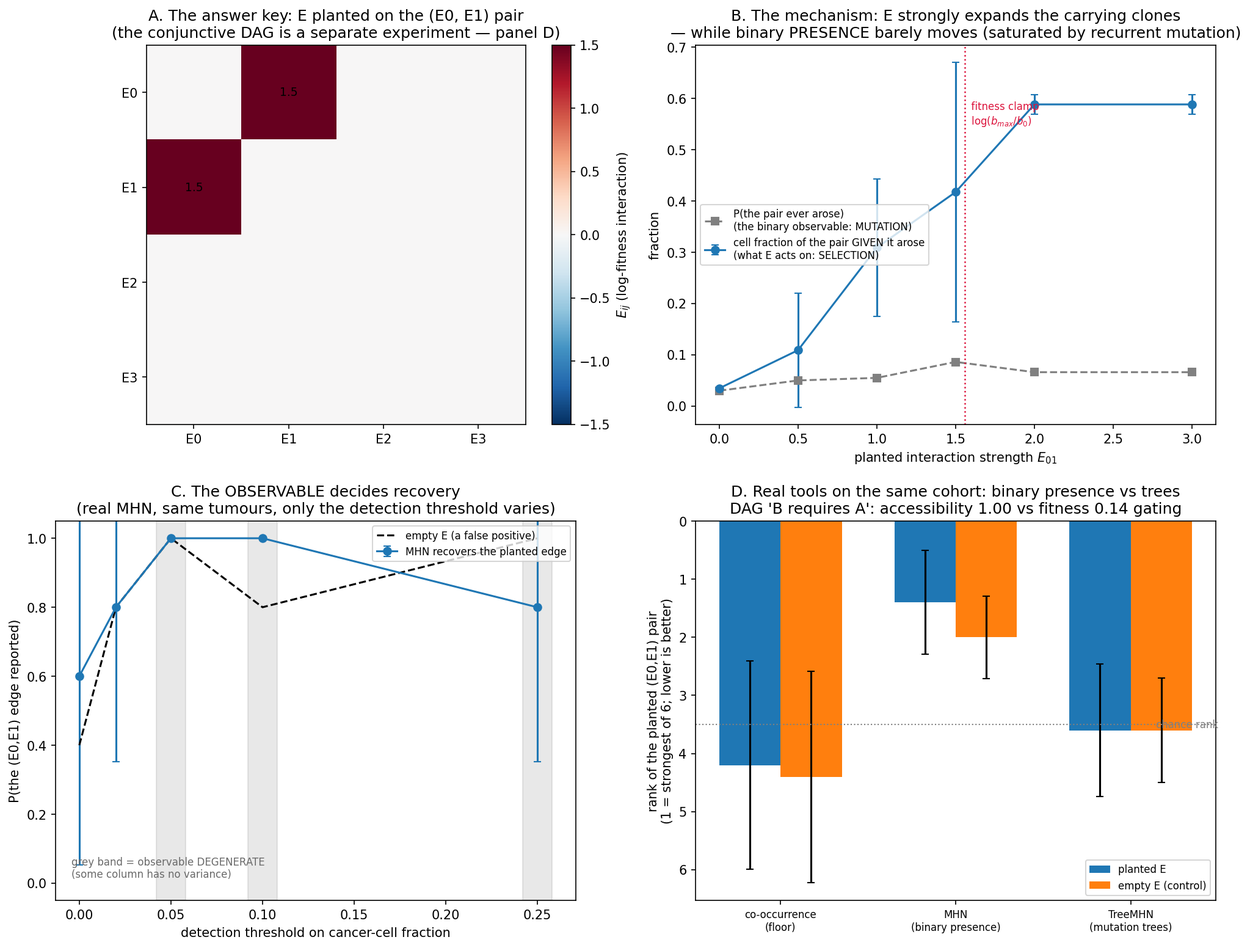
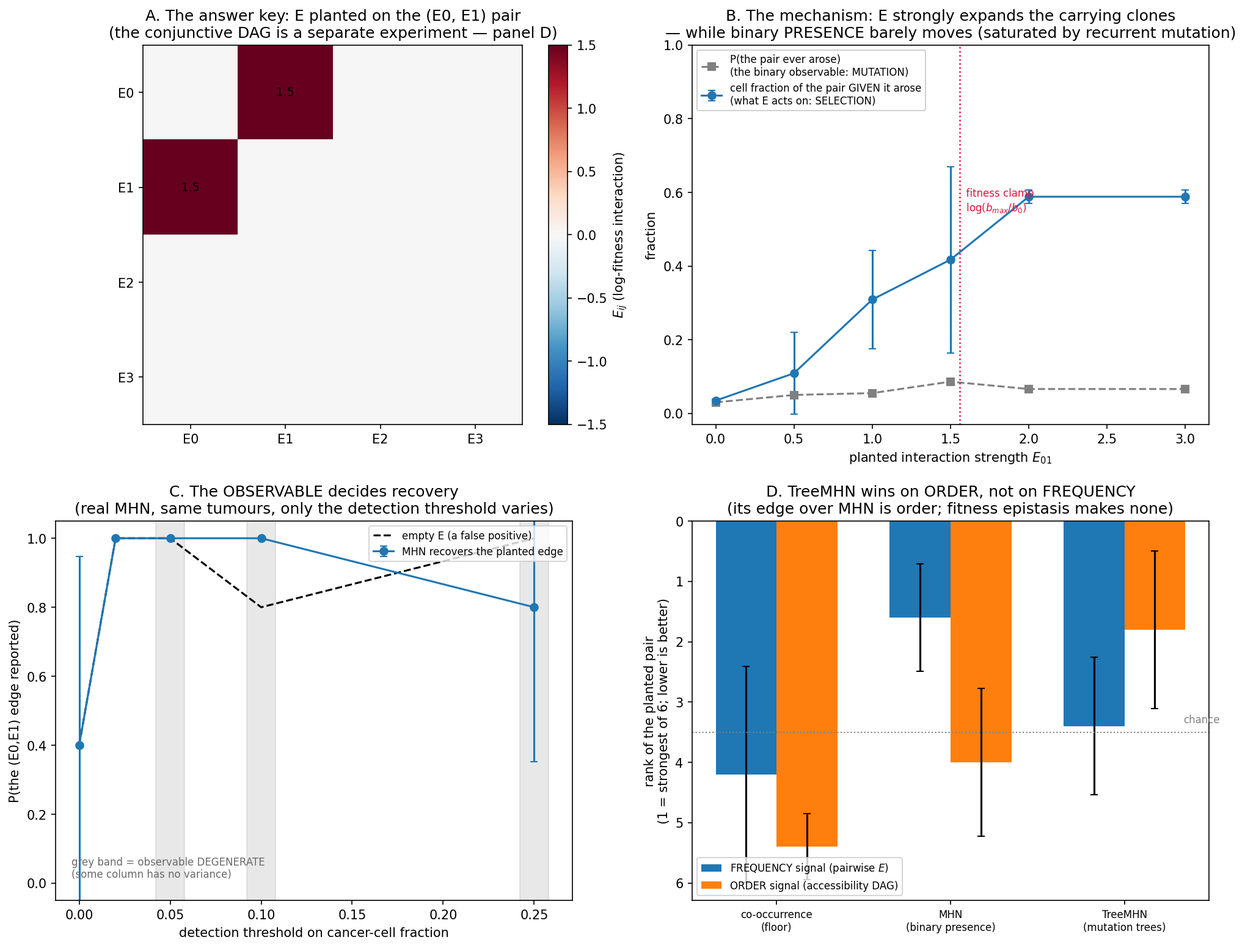
fix(epistasis): TreeMHN reads ORDER, not clone sizes — and wins on an order signal
Prompted by the question "shouldn't TreeMHN beat MHN, since it takes the trees?". The prior is
right, and chasing it found a factual error in 58b22b0 plus a vacuous experiment.

THE ERROR (mine, now retracted): 58b22b0 claimed TreeMHN "retains clone sizes", and explained its
failure on pairwise E as a power limit. Both wrong. TreeMHN's `input_tree_df` accepts ONLY
Patient_ID/Tree_ID/Node_ID/Mutation_ID/Parent_ID and ERRORS on any other column; its `weights`
argument is a per-TREE weight for tree uncertainty, not a clone size. It reads topology ONLY.

So the three observables separate cleanly, and each tool recovers exactly the signal its input
encodes:
  co-occurrence / MHN  <- binary presence  : discards ORDER and FREQUENCY
  TreeMHN              <- tree topology    : keeps ORDER, discards FREQUENCY
TreeMHN's gain over MHN is ORDER. Fitness epistasis changes how large the carrying clones grow and
leaves the event sequence untouched -- it produces NO order. So TreeMHN is STRUCTURALLY blind to it,
not short of data. That is a falsifiable prediction, and it is now tested.

TESTED AND CONFIRMED -- the 2x2 is the benchmark's real result (mean rank of the planted pair of 6;
chance 3.5; lower better; 5 network draws):

                                  FREQUENCY signal (E)   ORDER signal (accessibility DAG)
  co-occurrence (floor)                  4.20                        5.40
  MHN     (binary presence)              1.60 *                      4.00
[…]

diff --git a/validation/validate_epistasis.py b/validation/validate_epistasis.py
@@ -18,9 +18,12 @@ THE FINDING — **the observable, not the cohort size, is what decides recovery.
         in a tumour (recurrent mutation), so "is it present?" is already yes at E=0 and saturates:
         the column carries almost no information about E.
       * The signal lives in **clone frequency**, and it is large: raising E expands the carrying
-        clones from a few percent of the tumour towards a majority (panel B). Any observable that
-        keeps frequency — a detection threshold on cancer-cell fraction, or the mutation TREES
-        TreeMHN consumes (which carry `n_cells`) — can in principle see it.
+        clones from a few percent of the tumour towards a majority (panel B). Recovering it needs an
+        observable that KEEPS frequency — e.g. a detection threshold on cancer-cell fraction.
+        **Neither MHN nor TreeMHN is such an observable.** TreeMHN reads mutation-tree TOPOLOGY, so
+        what it adds over MHN is event ORDER, not frequency; it never sees clone sizes. Fitness
+        epistasis produces no order, so TreeMHN's advantage is orthogonal to it — and panel D
+        confirms the prediction by giving both tools an ORDER signal, on which TreeMHN duly wins.
 
     The ordered/conjunctive constraints are a separate axis, decided by `gating_mode`:
     **accessibility** gating acts on the mutation process itself, survives into every observable, and
@@ -293,8 +296,12 @@ def sweep_threshold(thresholds, strength=1.5, n=40, reps=3):
 
 
 def compare_tools(strength=1.5, n=40, reps=3):
-    """Panel D (left) — MHN (binary presence) vs TreeMHN (trees, which keep clone sizes) on the SAME
-    cohorts, plus the built-in co-occurrence floor."""
+    """Panel D (left) — MHN (binary presence) vs TreeMHN (mutation trees) on the SAME cohorts, plus
+    the built-in co-occurrence floor, for the FREQUENCY signal (pairwise E).
+
+    TreeMHN's gain over MHN is event ORDER, NOT frequency (it never sees clone sizes — see
+    `compare_tools_order`), so neither is expected to recover a frequency-only signal.
+    """
     rows = []
     for rep in range(reps):
         ls = DEFAULT_LAYOUT_SEED + rep
@@ -321,6 +328,55 @@ def compare_tools(strength=1.5, n=40, reps=3):
     return pd.DataFrame(rows)
 
 
+def compare_tools_order(n=40, reps=5):
+    """Panel D (right) — the SAME two tools on an ORDER signal instead of a frequency one.
+
+    This is the control that identifies WHY TreeMHN fails on pairwise E, and it is the crux of the
+    benchmark. The two tools consume different projections of the same cohort:
+
+        MHN     <- binary event presence : discards ORDER and FREQUENCY
+        TreeMHN <- mutation-tree topology: keeps ORDER, discards FREQUENCY
+                   (`input_tree_df` accepts ONLY Patient_ID/Tree_ID/Node_ID/Mutation_ID/Parent_ID
+                    and rejects any other column -- it never sees clone sizes; its `weights` argument
+                    is a per-TREE weight for tree uncertainty, not a clone size.)
+
+    So TreeMHN's extra information over MHN is ORDER. Fitness epistasis produces a FREQUENCY signal
+    and no order, which predicts TreeMHN cannot beat MHN on it -- structurally, not for want of data.
+    The prediction is falsifiable: on an ACCESSIBILITY-gated DAG, which produces a genuine order
+    signal, TreeMHN should WIN. That is what this measures.
+
+    Uses ``event_size=8``, not the panel-B/C value of 2: a gated child needs its parent first, and at
+    event_size=2 it essentially never arises (0-2 of 40 patients), which tests nothing. Watch the
+    printed child-carrying patient count -- it is this panel's power.
+    """
+    rows = []
+    n_pairs = N_EVENTS * (N_EVENTS - 1) // 2
+    for rep in range(reps):
+        dp = dict(n_constraints=1, dag_depth=2, dag_branching=1, gating_mode="accessibility")
+        ts = run_cohort(n, dict(epi(), event_size=8), dp, seed0=1 + rep * 500,
+                        layout_seed=DEFAULT_LAYOUT_SEED + rep)
+        if len(ts) < 4:
+            continue
+        dag = ts[0].selection.epistasis.true_dag_edges()
+        if not dag:
+            continue
+        parent, child = dag[0]
+        X = ig.to_mhn_matrix(ts)
+        n_child = int(X.values[:, child].sum())
+        thetas = {"co-occurrence\n(floor)": ig.cooccurrence_scores(X.values),
+                  "MHN\n(binary presence)": run_mhn(X),
+                  "TreeMHN\n(mutation trees)": run_treemhn(ig.to_treemhn_trees(ts))}
+        for tool, th in thetas.items():
+            if th is None:
+                continue
+            edges = theta_to_edges(np.asarray(th), k=n_pairs)
+            rank = next((r for r, (i, j, _) in enumerate(edges, 1)
+                         if {min(i, j), max(i, j)} == {min(parent, child), max(parent, child)}), None)
+            rows.append(dict(tool=tool, rep=rep, rank=rank, found=int(rank == 1),
+                             n_child_patients=n_child, n_pairs=n_pairs))
+    return pd.DataFrame(rows)
+
+
 def sweep_gating(n=40, reps=3):
     """Panel D (right) — the two axes a dependency DAG admits (the CONJUNCTION "B requires A" and the
     ORDER "A precedes B") under each gating mode, from true vs reconstructed trees."""
@@ -328,7 +384,11 @@ def sweep_gating(n=40, reps=3):
     for mode in ("accessibility", "fitness"):
         for rep in range(reps):
             dp = dict(n_constraints=2, dag_depth=2, dag_branching=1, gating_mode=mode)
-            tumors = run_cohort(n, epi(), dp, seed0=1 + rep * 500,
+            # event_size=8, not the panel-B/C value of 2: a gated child needs its parent first, so at
+            # event_size=2 it arises in 0-2 of 40 patients and this panel measures nothing. The two
+            # halves of the benchmark genuinely need different alphabets -- B/C need events rare
+            # enough not to saturate presence, D needs them common enough to reach the gated child.
+            tumors = run_cohort(n, dict(epi(), event_size=8), dp, seed0=1 + rep * 500,
                                 layout_seed=DEFAULT_LAYOUT_SEED + rep)
             if len(tumors) < 4:
                 continue
@@ -344,7 +404,7 @@ def sweep_gating(n=40, reps=3):
 
 
 # =============================================================================== figure
-def make_figure(net, strength_df, thr_df, tool_df, gate_df, out):
+def make_figure(net, strength_df, thr_df, tool_df, order_df, gate_df, out):
     import matplotlib
     matplotlib.use("Agg")
     import matplotlib.pyplot as plt
@@ -403,33 +463,30 @@ def make_figure(net, strength_df, thr_df, tool_df, gate_df, out):
     axC.set_title("C. The OBSERVABLE decides recovery\n"
                   "(real MHN, same tumours, only the detection threshold varies)")
 
-    # -- D: tools
-    if not tool_df.empty:
-        tools = list(dict.fromkeys(tool_df["tool"]))
-        x = np.arange(len(tools)); w = 0.35
-        for k, arm in enumerate(["planted E", "empty E (control)"]):
-            m, e = [], []
-            for t in tools:
-                d = tool_df[(tool_df.tool == t) & (tool_df.arm == arm)]["rank"].dropna()
-                m.append(d.mean() if len(d) else np.nan)
-                e.append(d.std() if len(d) else 0.0)
-            axD.bar(x + (k - 0.5) * w, m, w, yerr=np.nan_to_num(e), capsize=3, label=arm)
+    # -- D: the SAME tools on a FREQUENCY signal vs an ORDER signal (the crux)
+    if not tool_df.empty and not order_df.empty:
+        tools = [t for t in dict.fromkeys(tool_df["tool"])]
         n_pairs = int(tool_df["n_pairs"].iloc[0])
+        x = np.arange(len(tools)); w = 0.35
+        freq = [tool_df[(tool_df.tool == t) & (tool_df.arm == "planted E")]["rank"].dropna().mean()
+                for t in tools]
+        order = [order_df[order_df.tool == t]["rank"].dropna().mean() for t in tools]
+        fe = [tool_df[(tool_df.tool == t) & (tool_df.arm == "planted E")]["rank"].dropna().std()
+              for t in tools]
+        oe = [order_df[order_df.tool == t]["rank"].dropna().std() for t in tools]
+        axD.bar(x - w / 2, freq, w, yerr=np.nan_to_num(fe), capsize=3,
+                label="FREQUENCY signal (pairwise $E$)")
+        axD.bar(x + w / 2, order, w, yerr=np.nan_to_num(oe), capsize=3,
+                label="ORDER signal (accessibility DAG)")
         axD.axhline((n_pairs + 1) / 2, color="grey", ls=":", lw=1)
-        axD.text(len(tools) - 0.5, (n_pairs + 1) / 2 + 0.06, "chance rank", ha="right",
+        axD.text(len(tools) - 0.45, (n_pairs + 1) / 2 - 0.15, "chance", ha="right",
                  fontsize=8, color="grey")
         axD.set_xticks(x); axD.set_xticklabels(tools, fontsize=8)
-        axD.set_ylabel(f"rank of the planted (E0,E1) pair\n(1 = strongest of {n_pairs}; lower is better)")
+        axD.set_ylabel(f"rank of the planted pair\n(1 = strongest of {n_pairs}; lower is better)")
         axD.invert_yaxis()
-        axD.legend(fontsize=8)
-        sub = ""
-        if not gate_df.empty:
-            acc = gate_df[(gate_df.gating == "accessibility") & (gate_df.arm == "true trees")]
-            fit = gate_df[(gate_df.gating == "fitness") & (gate_df.arm == "true trees")]
-            if len(acc) and len(fit):
-                sub = (f"\nDAG 'B requires A': accessibility {acc['constraint_satisfaction'].mean():.2f}"
-                       f" vs fitness {fit['constraint_satisfaction'].mean():.2f} gating")
-        axD.set_title("D. Real tools on the same cohort: binary presence vs trees" + sub)
+        axD.legend(fontsize=8, loc="lower left")
+        axD.set_title("D. TreeMHN wins on ORDER, not on FREQUENCY\n"
+                      "(its edge over MHN is order; fitness epistasis makes none)")
 
     fig.tight_layout()
     fig.savefig(out, dpi=150, bbox_inches="tight")
@@ -469,6 +526,12 @@ def main():
     if not tool_df.empty:
         print(tool_df.groupby(["tool", "arm"])[["found", "rank"]].mean().round(2).to_string())
 
+    print("\n== D. the SAME tools on an ORDER signal (accessibility DAG) ==")
+    print("   (this is the control that explains WHY TreeMHN fails on pairwise E)")
+    order_df = compare_tools_order(n=args.n, reps=args.reps)
+    if not order_df.empty:
+        print(order_df.groupby("tool")[["rank", "found", "n_child_patients"]].mean().round(2).to_string())
+
     print("\n== D. gating: order / conjunction recovery ==")
     gate_df = sweep_gating(n=args.n, reps=args.reps)
     if not gate_df.empty:
@@ -477,7 +540,7 @@ def main():
         ].mean().round(2).to_string())
 
     os.makedirs(os.path.dirname(args.out), exist_ok=True)
-    make_figure(net, strength_df, thr_df, tool_df, gate_df, args.out)
+    make_figure(net, strength_df, thr_df, tool_df, order_df, gate_df, args.out)
 
     # ------------------------------------------------------------------ headline
     print("\n================ headline ================")
@@ -493,6 +556,22 @@ def main():
         print(f"           P(the pair ever arose) moves {pl:.2f} -> {ph:.2f} -- E does NOT change it "
               f"(that is a mutation property).")
         print("=> the signal is real and large, and it lives in clone FREQUENCY, not in event presence.")
+    if not tool_df.empty and not order_df.empty:
+        def rk(df, tool, **q):
+            d = df[df.tool == tool]
+            for k, v in q.items():
+                d = d[d[k] == v]
+            return d["rank"].dropna().mean()
+        n_pairs = int(tool_df["n_pairs"].iloc[0])
+        print(f"\nWHICH TOOL SEES WHICH SIGNAL (mean rank of the planted pair of {n_pairs}; "
+              f"chance {(n_pairs + 1) / 2}):")
+        for tool in dict.fromkeys(tool_df["tool"]):
+            f = rk(tool_df, tool, arm="planted E")
+            o = rk(order_df, tool)
+            print(f"   {tool.replace(chr(10), ' '):28s}  frequency signal {f:.2f}   order signal {o:.2f}")
+        print("=> TreeMHN's advantage over MHN is ORDER, and it delivers on an order signal. Fitness")
+        print("   epistasis produces no order -- only frequency, which NEITHER tool consumes")
+        print("   (TreeMHN's input_tree_df takes topology ONLY; it never sees clone sizes).")
     if not gate_df.empty:
         for mode in ("accessibility", "fitness"):
             d = gate_df[(gate_df.gating == mode) & (gate_df.arm == "true trees")]

diff --git a/manuscript/paper.tex b/manuscript/paper.tex
@@ -1083,37 +1083,29 @@ arises many times independently within one tumor, so it is already present at $E
 saturates. What selection changes is how much of the tumor those lineages occupy, which is precisely
 what a presence call discards.
 
-Running the tools themselves is what disciplines this claim. Real MHN, fitted to that binary matrix,
-does retain some signal: it ranks the planted pair first in 4 of 5 network draws versus 1 of 5 for an
-empty-$E$ control (mean rank 1.4 versus 2.0 of six pairs), though with five draws this is suggestive
-rather than significant (Fisher $p = 0.21$), and the control's own rank of 2.0 --- well above the
-chance value of 3.5 --- shows a substantial false-positive tendency that a benchmark without an
-empty-network arm would have mistaken for recovery. TreeMHN, which consumes the mutation trees and
-therefore retains clone sizes, does \emph{not} beat chance here (rank 3.6 for both planted and empty
-$E$); we expected the opposite, and read it as a power limit rather than a property of the method,
-since our trees average only 2.5 events over 36 patients whereas TreeMHN is designed for cohorts an
-order of magnitude larger. Sweeping the detection threshold on cancer-cell fraction
-(\Cref{fig:epistasis}C) shows why the regime is hard: at zero threshold the observable is saturated
-and at a high one it is empty, with only a narrow window between. These numbers are a floor for this
-regime, not an estimate for real cohorts --- our tumors are $\approx$130 cells, small enough that a
-clone arising late has little time to expand, so much of the frequency signal never develops. The
-mechanism (\Cref{fig:epistasis}B) is structural and should survive scaling; the recovery rates should
-not be extrapolated.
-
-Ordered constraints behave differently, and the distinction is the \emph{gating mode} --- a modelling
-choice we make explicit because the two are different generative stories. Under \emph{accessibility}
-gating (event $B$ cannot arise until $A$ is present; the CBN story) the constraint acts on the
-mutation process itself, survives into every observable, and is recovered perfectly in every network
-draw, from true and reconstructed trees alike. Under \emph{fitness} gating ($B$ arises freely but is
-inert until $A$; closer to what MHN assumes) the identical planted DAG leaves essentially no
-recoverable trace: the conjunction holds in only a small minority of lineages, and the apparent
-ordering merely reports which event is intrinsically faster, because event acquisition rates are
-themselves heterogeneous --- an emergent consequence of the copy-number landscape, since
-single-nucleotide variants are drawn per allele and a module on an amplified segment is hit more
-often. The practical reading is not that these methods are poor: it is that fitness epistasis and
-acquisition-rate epistasis are different objects, that cross-sectional event presence is the wrong
-observable for the former, and that a benchmark must state which generative story it planted. Only a
-simulator that knows the answer can make that distinction visible.
+Running the tools themselves is what disciplines this claim, and it also identifies precisely which
+signal each one can see. The two consume different projections of the same cohort: MHN reads binary
+event presence, discarding both order and frequency, whereas TreeMHN reads mutation-tree topology,
+which retains the order in which events arose along each lineage but --- contrary to a natural
+expectation --- still not clone sizes, since its input is the tree alone. TreeMHN's advantage over
+MHN is therefore \emph{order}, and fitness epistasis generates no order: it changes how large the
+carrying clones grow, leaving the sequence of events untouched. The prediction is that TreeMHN cannot
+beat MHN on pairwise $E$ for structural reasons rather than want of data, and that it should win
+decisively once the planted signal \emph{is} an order. Both hold (\Cref{fig:epistasis}D). On pairwise
+$E$, TreeMHN sits at chance (mean rank 3.4 of six pairs, chance 3.5) while MHN reaches 1.6 --- but
+MHN's empty-$E$ control itself ranks the pair 2.0, far above chance, so most of that is a
+false-positive tendency an untested benchmark would have mistaken for recovery (4 of 5 draws versus 1
+of 5, Fisher $p = 0.21$). On an accessibility-gated dependency, which is a genuine order signal, the
+ordering reverses and sharpens: TreeMHN attains mean rank 1.8 and recovers the planted edge outright
+in 3 of 5 draws, while MHN falls to 4.0 --- below chance --- and the co-occurrence floor to 5.4. The
+one draw in which TreeMHN fails is the one in which a single patient carried the gated event, i.e.
+where there was no signal to read. Sweeping the detection threshold on cancer-cell fraction
+(\Cref{fig:epistasis}C) shows why the frequency route is hard in this regime: at zero threshold the
+observable is saturated and at a high one it is empty, with only a narrow window between. These
+numbers are a floor rather than an estimate for real cohorts --- our tumors are $\approx$130 cells,
+small enough that a clone arising late has little time to expand, so much of the frequency signal
+never develops --- but the mechanism (\Cref{fig:epistasis}B) and the tool--signal correspondence
+(\Cref{fig:epistasis}D) are structural and should survive scaling.
 
 \begin{figure}[tbp]
   \centering
@@ -1128,12 +1120,12 @@ simulator that knows the answer can make that distinction visible.
   clamp at $\log(b_{\max}/b_0)$ truncates the response. \textbf{(C)} Real MHN edge recovery versus
   the detection threshold applied to cancer-cell fraction, against the empty-network false-positive
   control; grey bands mark thresholds at which the observable is degenerate (a column with no
-  variance --- saturated at low threshold, empty at high). \textbf{(D)} The real tools on the same
-  cohorts: MHN (binary presence) versus TreeMHN (mutation trees, which retain clone sizes) versus the
-  co-occurrence floor. Ordered constraints under the two gating modes are scored on the two axes they
-  admit (``$B$ requires $A$'' and ``$A$ precedes $B$''): accessibility gating acts on the mutation
-  process and is recovered perfectly, whereas fitness gating leaves the same planted DAG with no
-  recoverable trace.}
+  variance --- saturated at low threshold, empty at high). \textbf{(D)} The same tools on the two
+  kinds of planted signal, scored as the rank of the planted pair among all pairs (lower is better;
+  chance is 3.5 of six). MHN reads binary presence, TreeMHN reads mutation-tree topology; the latter
+  adds \emph{order}, not frequency. Fitness epistasis produces frequency without order and neither
+  tool recovers it, whereas an accessibility-gated dependency produces order and TreeMHN recovers it
+  decisively --- the tool's advantage materializes exactly on the signal its input encodes.}
   \label{fig:epistasis}
 \end{figure}
 
@@ -1197,8 +1189,9 @@ the realized per-lineage event order --- with events acquired in the same divisi
 since no order between them exists --- are exposed as the answer key. Two observables are exported
 from the same cohort: the binary patients $\times$ events matrix MHN consumes, in which an event is
 called when its cancer-cell fraction (summed across all carrying clones, as a variant-allele-frequency
-call would) exceeds a detection threshold; and the per-patient mutation trees TreeMHN consumes, which
-retain clone sizes. MHN and TreeMHN are run at their published defaults in dedicated environments, and
+call would) exceeds a detection threshold; and the per-patient mutation trees TreeMHN consumes, whose
+topology encodes the order in which events arose but not clone sizes (its input accepts the tree
+alone). MHN and TreeMHN are run at their published defaults in dedicated environments, and
 because their $\Theta$ is a rate modifier rather than a fitness coefficient we score recovered
 \emph{edges} (symmetrized over the two directions, since $E$ is symmetric) rather than values.
 

diff --git a/src/iscc/integrations/progression.py b/src/iscc/integrations/progression.py
@@ -137,8 +137,13 @@ def to_mutation_tree(tumor, min_clone_freq=0.0):
 
     ``min_clone_freq`` prunes clones below a fraction of the tumour — a CLONE-level filter, which is
     the right notion here (a tip too small to resolve), unlike the per-EVENT detection threshold that
-    ``to_mhn_matrix`` applies. Unlike the binary cross-sectional matrix, this export KEEPS the clone
-    sizes (``n_cells``), which is where the fitness-epistasis signal lives.
+    ``to_mhn_matrix`` applies.
+
+    ``n_cells`` is emitted for the caller's own analysis, but note that **TreeMHN does not read it**:
+    its ``input_tree_df`` accepts ONLY ``Patient_ID``/``Tree_ID``/``Node_ID``/``Mutation_ID``/
+    ``Parent_ID`` and errors on any other column (its ``weights`` argument is a per-TREE weight for
+    tree uncertainty, not a clone size). So what this export gives a tree-based method over the binary
+    matrix is **event ORDER**, not frequency — which is exactly what it can and cannot recover.
 
     Follows TreeMHN's own input convention exactly (its README): the root is ``Node_ID = 1`` with
     ``Mutation_ID = 0`` and is **its own parent** (``Parent_ID = 1``) — not 0, which its

diff --git a/DESIGN_epistasis.md b/DESIGN_epistasis.md
@@ -40,9 +40,25 @@ carrying a combination grow — while MHN/CBN model the **rate of event acquisit
   draws vs 1/5 for the empty-`E` control (mean rank 1.4 vs 2.0 of 6). **Suggestive, not significant**
   (Fisher p=0.21, n=5). The control's rank 2.0 ≫ chance 3.5 is a real **false-positive tendency** —
   without the empty-`E` arm it would have looked like recovery. That arm is why the control exists.
-* **Real TreeMHN** (trees, retains clone sizes) does **not** beat chance (rank 3.6 vs chance 3.5, both
-  arms) — **we predicted the opposite**. Most likely a power limit, not a property of the method: our
-  trees average 2.5 events over 36 patients, and TreeMHN targets cohorts ~10x larger.
+* **Real TreeMHN** does **not** beat chance on pairwise `E` (rank 3.4 vs chance 3.5) — and the reason
+  is structural, not power. **TreeMHN never sees clone sizes**: `input_tree_df` accepts ONLY
+  Patient_ID/Tree_ID/Node_ID/Mutation_ID/Parent_ID and errors on any other column (`weights` is a
+  per-TREE weight for tree uncertainty). Its gain over MHN is **event ORDER**; fitness epistasis
+  produces **no order**, only frequency — so its extra information is orthogonal to the planted signal.
+  **Prediction, tested and confirmed:** on an ORDER signal (accessibility-gated DAG) TreeMHN wins
+  decisively — rank **1.80** (top-1 0.6) vs MHN **4.00** (below chance) vs the co-occurrence floor 5.40.
+
+**The 2x2 is the real result — each tool recovers exactly the signal its input encodes:**
+
+| observable a tool consumes | FREQUENCY signal (pairwise `E`) | ORDER signal (accessibility DAG) |
+|---|---|---|
+| co-occurrence floor (presence) | 4.20 | 5.40 |
+| **MHN** — binary presence | 1.60 *(control 2.00 → mostly false-positive tendency)* | 4.00 |
+| **TreeMHN** — tree topology (order, NOT sizes) | 3.40 ≈ chance | **1.80** |
+
+(mean rank of the planted pair among 6; chance 3.5; lower is better; 5 network draws.) Recovering
+fitness epistasis needs a **frequency-aware** observable, which NEITHER tool consumes — that is the
+gap this benchmark identifies.
 * **Conjunctive constraints** under **accessibility** gating are recovered **perfectly** (1.00, true
   and reconstructed trees), though at low power (~8 child-carrying lineages/draw); the identical DAG
   under **fitness** gating leaves **no trace** (conjunction holds in 0.14 of lineages).

diff --git a/validation/README_integration.md b/validation/README_integration.md
@@ -153,11 +153,29 @@ the two directions — iscc's `E` is symmetric and defines no direction), never 
 
 ### Reading the result before you run it
 
-The finding is that **the observable decides recovery**, not the cohort size. iscc's `E` acts on
-fitness (how large the carrying clones grow); a binary "event present" matrix is saturated by
-**recurrent mutation** (a favoured combination arises many times independently, so it is already
-present at `E=0`) and discards the frequency the signal lives in. Conjunctive constraints under
-`gating_mode: accessibility` act on the mutation process and are recovered perfectly.
+**Each tool recovers exactly the signal its input encodes.** iscc's `E` acts on fitness (how large the
+carrying clones grow); a binary "event present" matrix is saturated by **recurrent mutation** (a
+favoured combination arises many times independently, so it is already present at `E=0`) and discards
+the frequency the signal lives in.
+
+**TreeMHN does NOT read clone sizes** — a natural assumption, and wrong: `input_tree_df` accepts only
+`Patient_ID`/`Tree_ID`/`Node_ID`/`Mutation_ID`/`Parent_ID` and errors on any other column (`weights`
+is a per-TREE weight for tree uncertainty). What it adds over MHN is **event ORDER**. Fitness
+epistasis produces no order, so TreeMHN is structurally blind to it — and wins decisively once the
+planted signal IS an order:
+
+| | FREQUENCY signal (pairwise `E`) | ORDER signal (accessibility DAG) |
+|---|---|---|
+| co-occurrence floor | 4.20 | 5.40 |
+| MHN (presence) | 1.60 (control 2.00 — largely false positives) | 4.00 |
+| TreeMHN (tree topology) | 3.40 ≈ chance | **1.80** |
+
+(mean rank of the planted pair of 6; chance 3.5; lower is better.) Recovering fitness epistasis needs
+a frequency-aware observable, which neither tool consumes.
+
+Note the two halves need **different event alphabets**: `event_size=2` keeps binary presence from
+saturating (panels B/C), but a gated child then reaches only 0–2 of 40 patients, so the DAG panels use
+`event_size=8`. Always check the printed child-carrying patient count before reading panel D.
 
 **Caveat:** the cohort tumours are ~130 cells — a clone arising late has no time to expand, so the
 absolute recovery rates are a floor for this regime, not an estimate for real cohorts.
